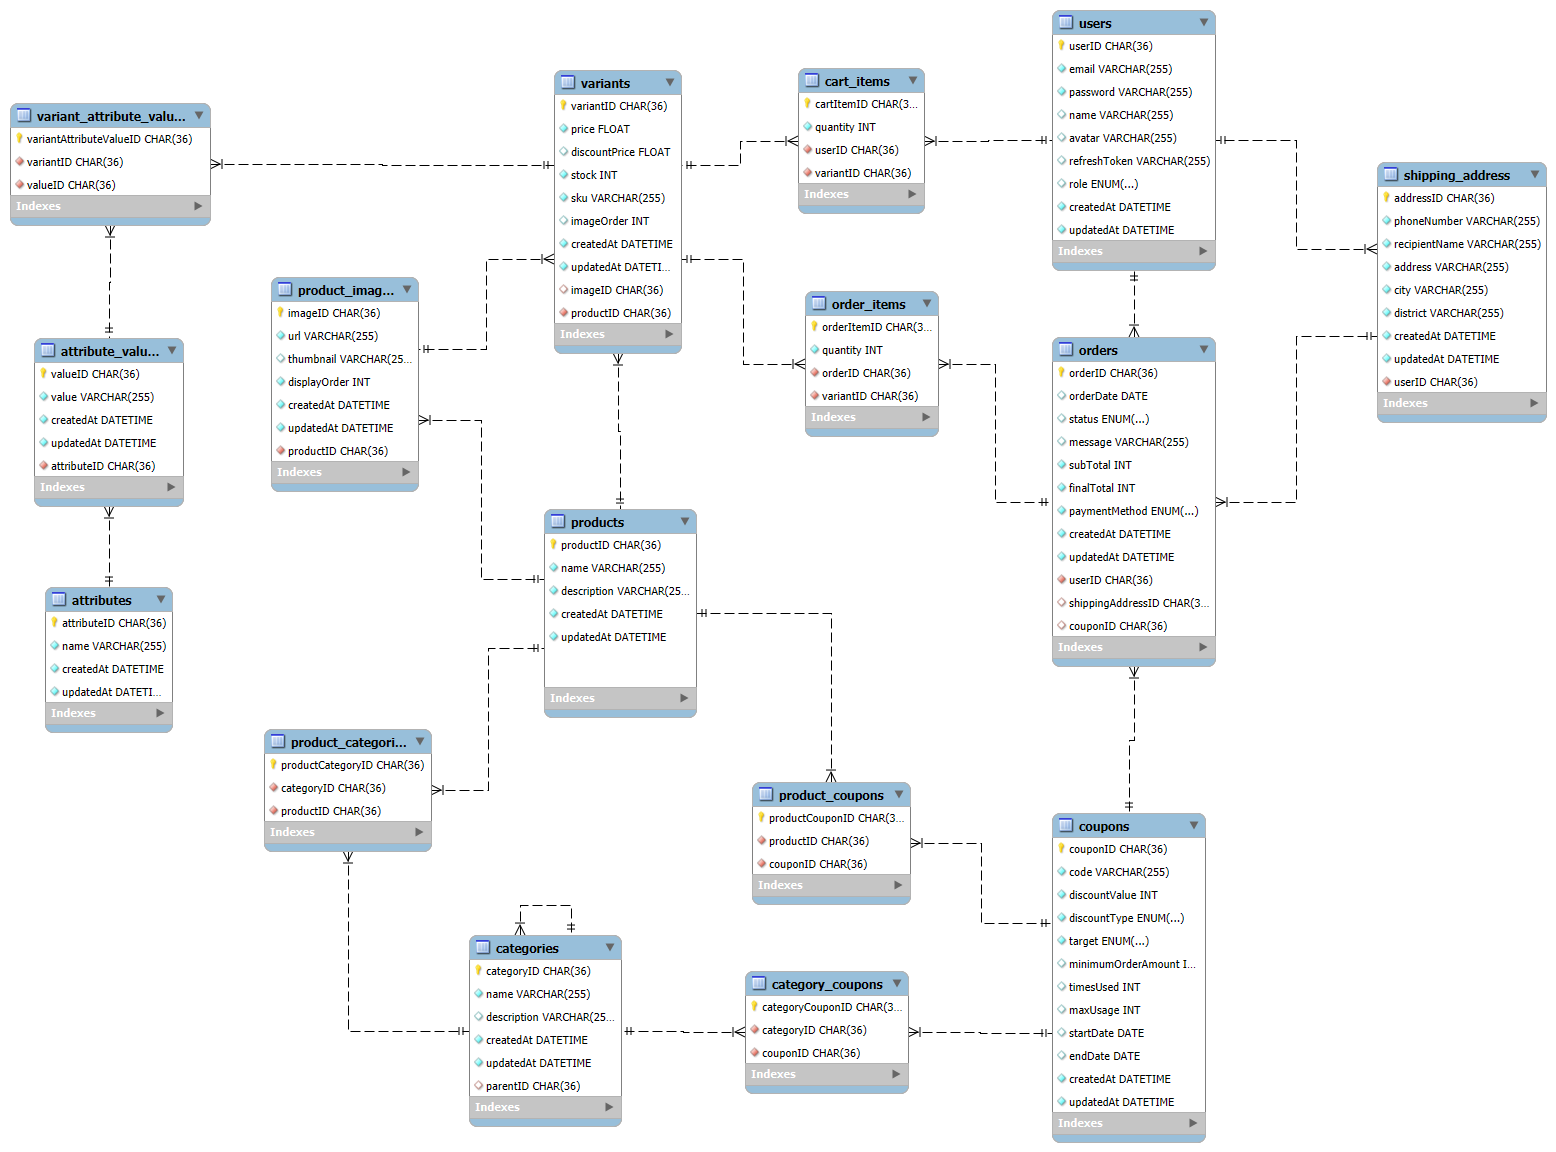
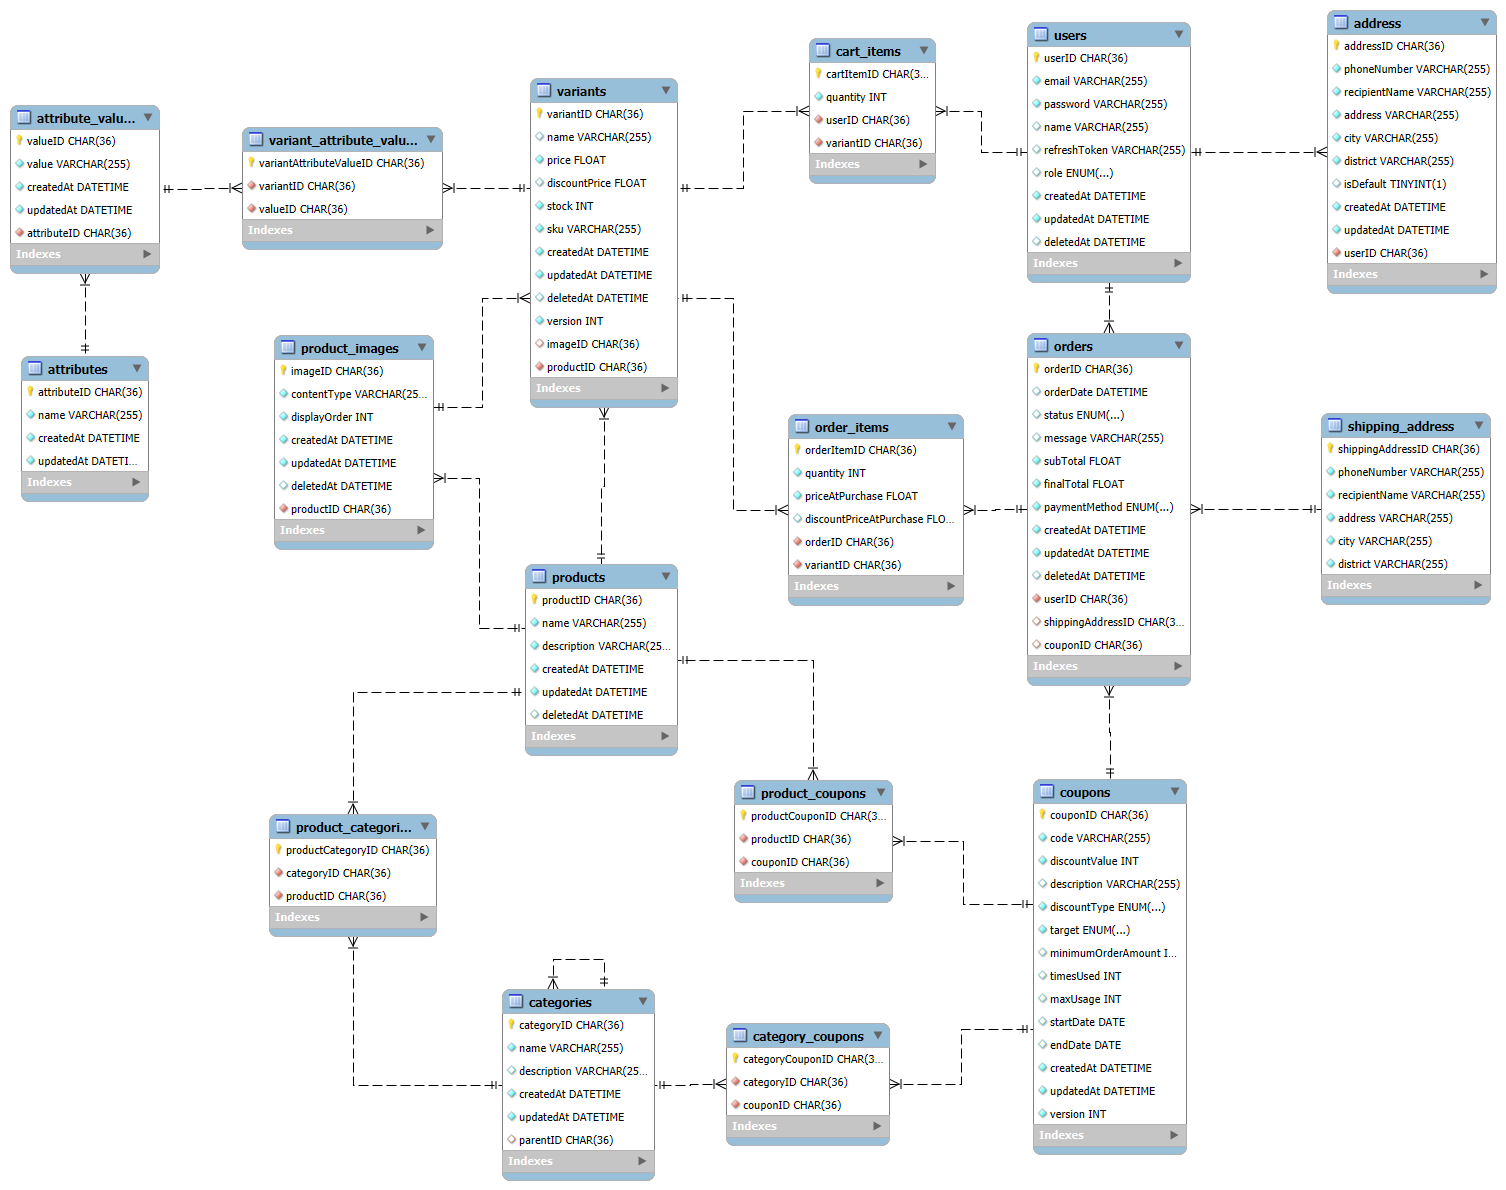
Fix: Update database schema for AWS images storing

diff --git a/src/v2/config/config.js b/src/v2/config/config.js
@@ -61,4 +61,23 @@ const serverConfig = {
     FRONT_END_URL: process.env.FRONT_END_URL,
 };
 
-export { paymentConfig, jwtConfig, dbConfig, serverConfig, googleConfig };
+const awsConfig = {
+    ACCESS_KEY: process.env.AWS_ACCESS_KEY,
+    SECRET_KEY: process.env.AWS_SECRET_KEY,
+    REGION: process.env.AWS_REGION,
+    BUCKET_NAME: process.env.AWS_BUCKET_NAME,
+    CLOUDFRONT_URL: process.env.AWS_CLOUDFRONT_URL,
+    CLOUDFRONT_KEY_PAIR_ID: process.env.AWS_CLOUDFRONT_KEY_PAIR_ID,
+    CLOUDFRONT_PRIVATE_KEY: (
+        process.env.AWS_CLOUDFRONT_PRIVATE_KEY ?? ""
+    ).replace(/\\n/g, "\n"),
+};
+
+export {
+    paymentConfig,
+    jwtConfig,
+    dbConfig,
+    serverConfig,
+    googleConfig,
+    awsConfig,
+};
